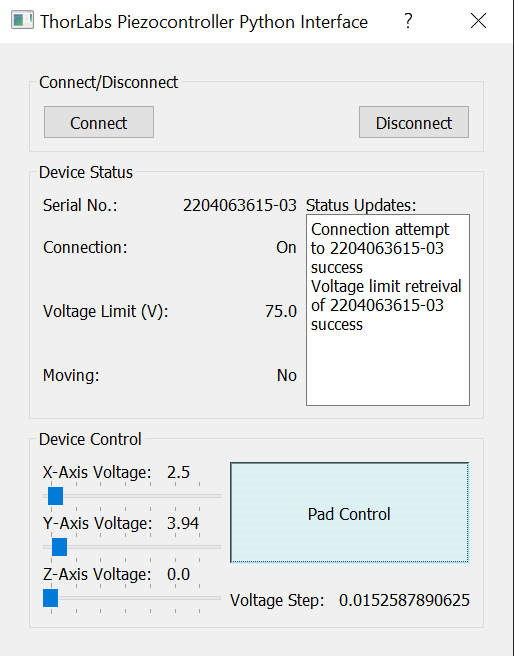
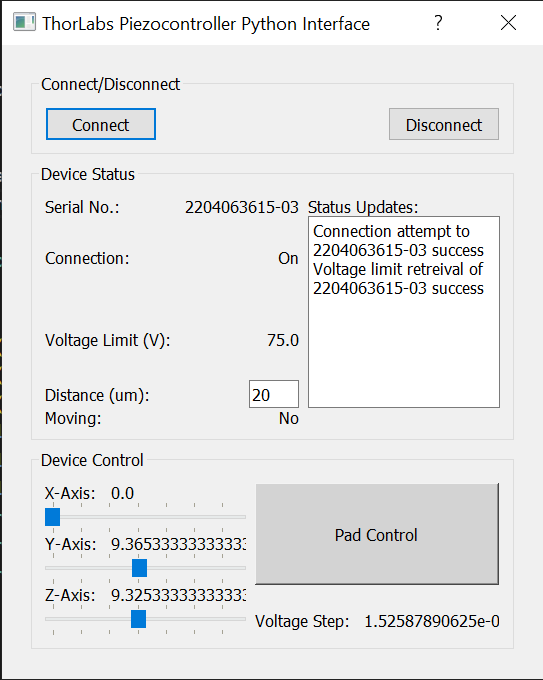
distance scaling fixed

diff --git a/TLP_Python_Interface/TLPPI.py b/TLP_Python_Interface/TLPPI.py
@@ -91,7 +91,7 @@ class WidgetGallery(QDialog):
         self.vlimText = QLabel("Voltage Limit (V): ")
         self.vlimStatus = QLabel("0")
         self.distText = QLabel("Distance (um):")
-        self.distEntry = QLineEdit("1")
+        self.distEntry = QLineEdit("20")
         self.distEntry.setFixedWidth(50)
         self.movingText = QLabel("Moving: ")
         self.movingStatus = QLabel("No")
@@ -233,11 +233,15 @@ class WidgetGallery(QDialog):
         mdtGetYAxisVoltage(self.pzhdl, self.yVoltage)
         mdtGetZAxisVoltage(self.pzhdl, self.zVoltage)
 
-        self.xVSliderValueText.setText(str(self.xVoltage[0]))
+        try:
+            distScale = float(self.distEntry.text().strip())/self.limitVoltage[0]
+        except:
+            distScale = 1
+        self.xVSliderValueText.setText(str(self.xVoltage[0]*distScale))
         self.xValue = self.convertVoltageToVal(self.xVoltage[0])
-        self.yVSliderValueText.setText(str(self.yVoltage[0]))
+        self.yVSliderValueText.setText(str(self.yVoltage[0]*distScale))
         self.yValue = self.convertVoltageToVal(self.yVoltage[0])
-        self.zVSliderValueText.setText(str(self.zVoltage[0]))
+        self.zVSliderValueText.setText(str(self.zVoltage[0]*distScale))
         self.zValue = self.convertVoltageToVal(self.zVoltage[0])
 
         self.xVSlider.setValue(int(self.xValue))
@@ -286,7 +290,7 @@ class WidgetGallery(QDialog):
 
     def voltageTracker(self):
         self.trackerThread = QThread()
-        self.voltTracker = voltageWorker(self.serialNumber, self.pzhdl, self.xVoltage, self.yVoltage, self.zVoltage, self.freeControlButton, self.distEntry)
+        self.voltTracker = voltageWorker(self.serialNumber, self.pzhdl, self.xVoltage, self.yVoltage, self.zVoltage, self.freeControlButton, self.distEntry, self.limitVoltage)
         self.voltTracker.xVSVT.connect(self.xVSliderValueText.setText)
         self.voltTracker.yVSVT.connect(self.yVSliderValueText.setText)
         self.voltTracker.zVSVT.connect(self.zVSliderValueText.setText)
@@ -492,7 +496,7 @@ class padWorker(QThread):
             self.zVSChange.emit(self.sliderZVal)
 
             try:
-                distScale = float(self.distEntry.text().strip())/self.limitVoltage
+                distScale = float(self.distEntry.text().strip())/self.limitVoltage[0]
             except:
                 distScale = 1
             self.xVTChange.emit(str(self.xVoltage[0]*distScale))
@@ -511,7 +515,7 @@ class voltageWorker(QThread):
     yV = [0]
     zV = [0]
 
-    def __init__(self, serialNumber, pzhdl, xVoltage, yVoltage, zVoltage, padButton, distEntry):
+    def __init__(self, serialNumber, pzhdl, xVoltage, yVoltage, zVoltage, padButton, distEntry, limitVoltage):
         super().__init__()
         self.serialNumber = serialNumber
         self.pzhdl = pzhdl
@@ -520,12 +524,13 @@ class voltageWorker(QThread):
         self.zVoltage = zVoltage
         self.padButton = padButton
         self.distEntry = distEntry
+        self.limitVoltage = limitVoltage
 
     def run(self):
         while (mdtIsOpen(self.serialNumber) == 1):
             if (self.padButton.isChecked() == 0):
                 try:
-                    distScale = float(self.distEntry.text().strip())/self.limitVoltage
+                    distScale = float(self.distEntry.text().strip())/self.limitVoltage[0]
                 except:
                     distScale = 1
                 mdtGetXAxisVoltage(self.pzhdl, self.xV)
